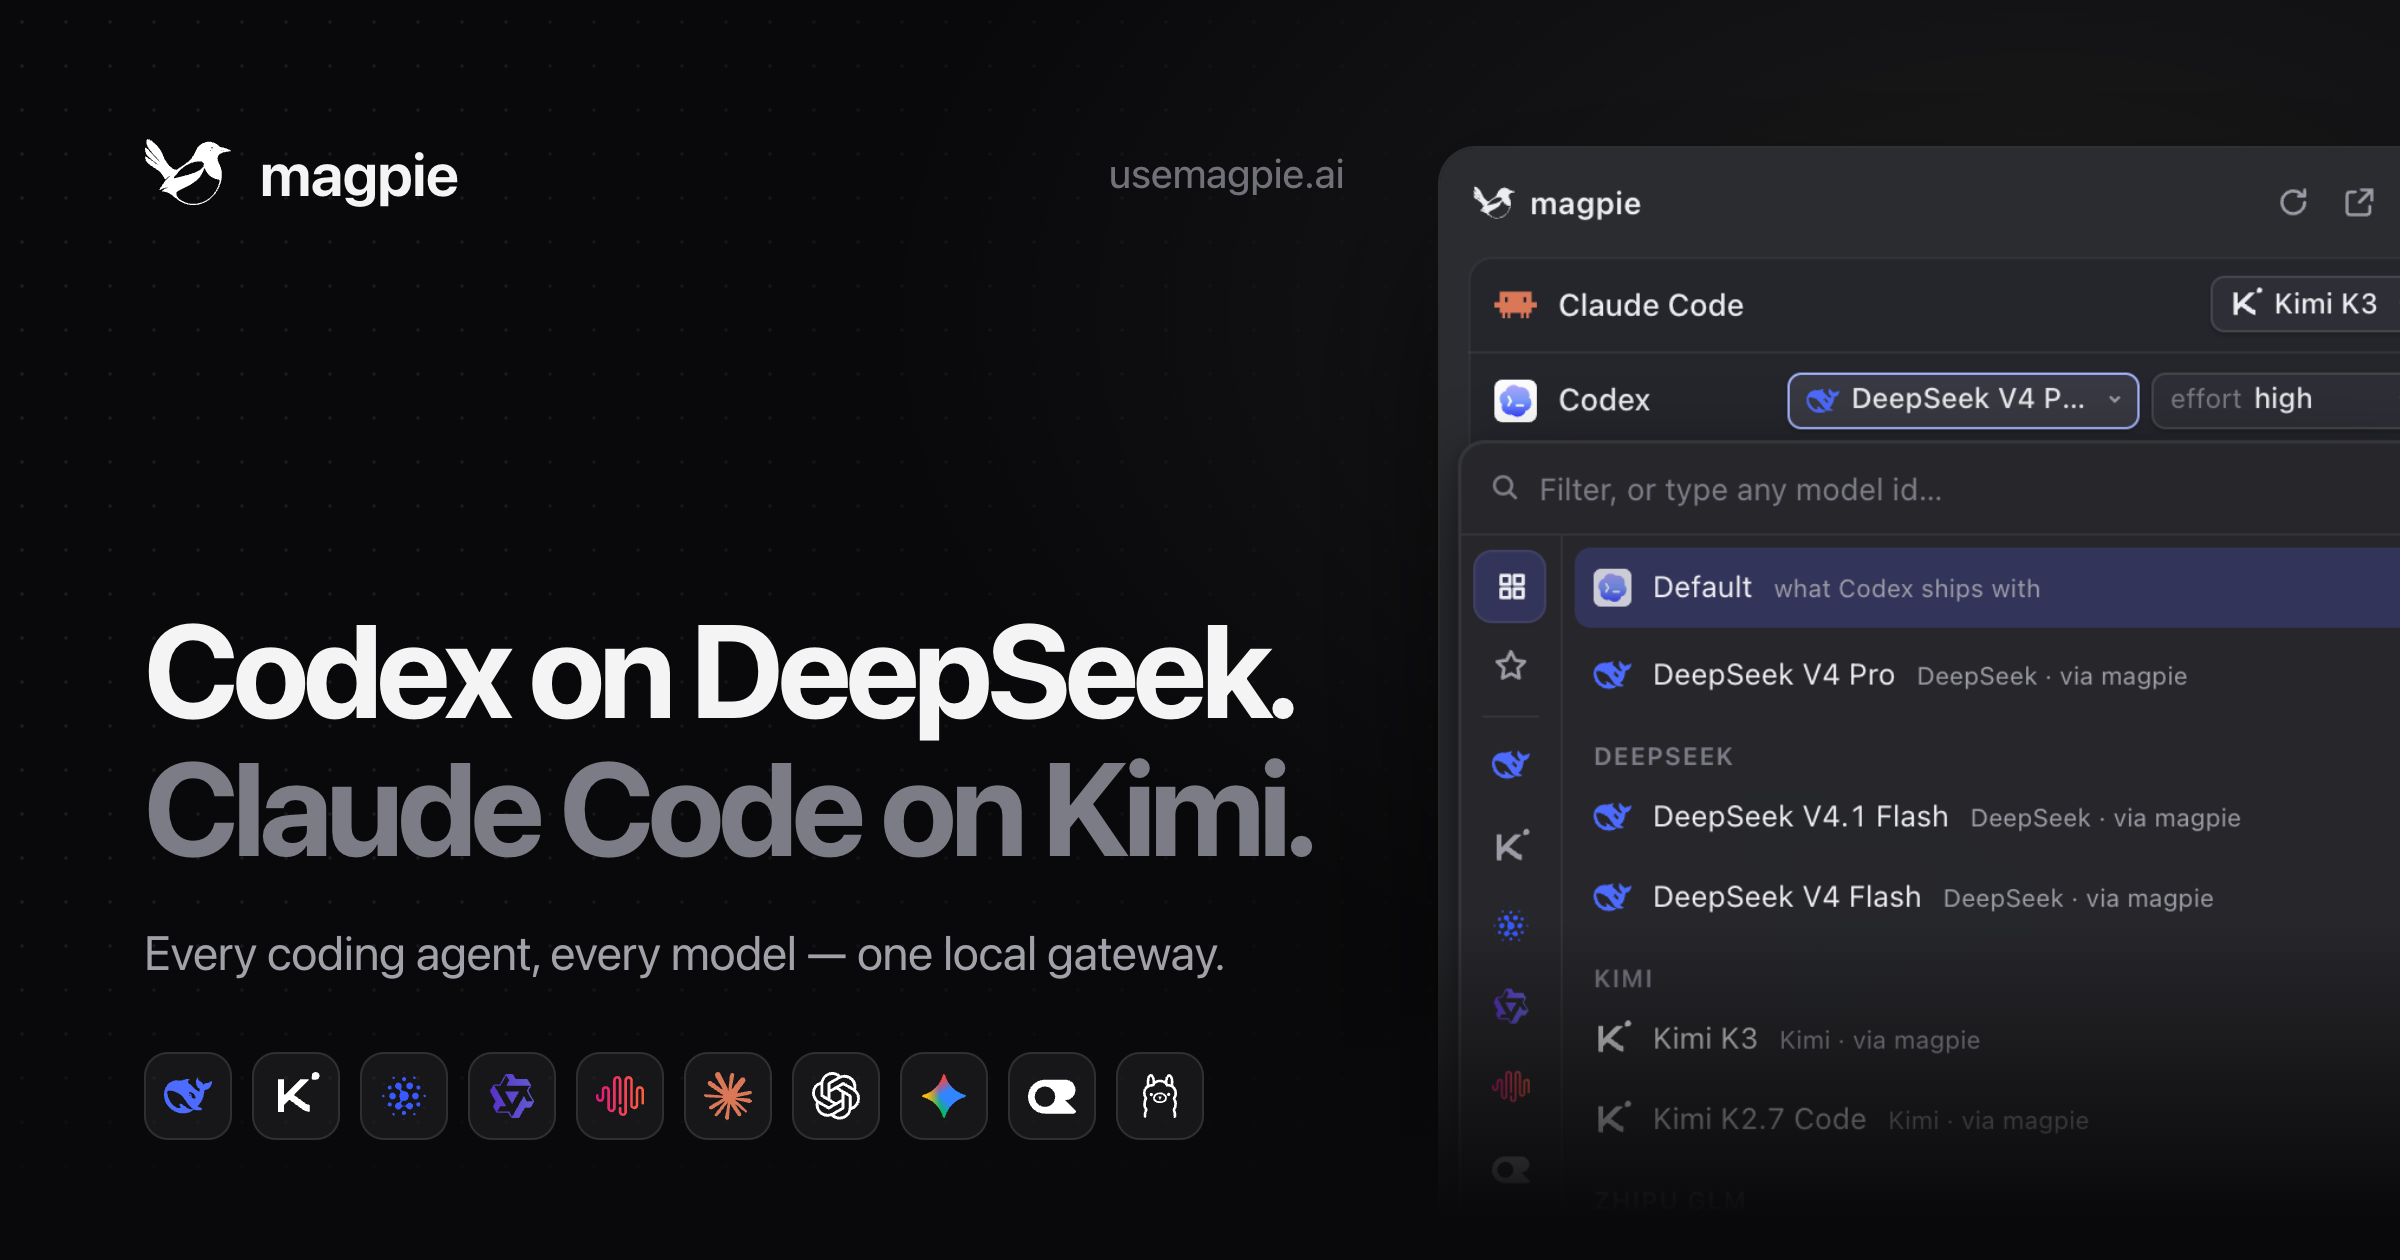
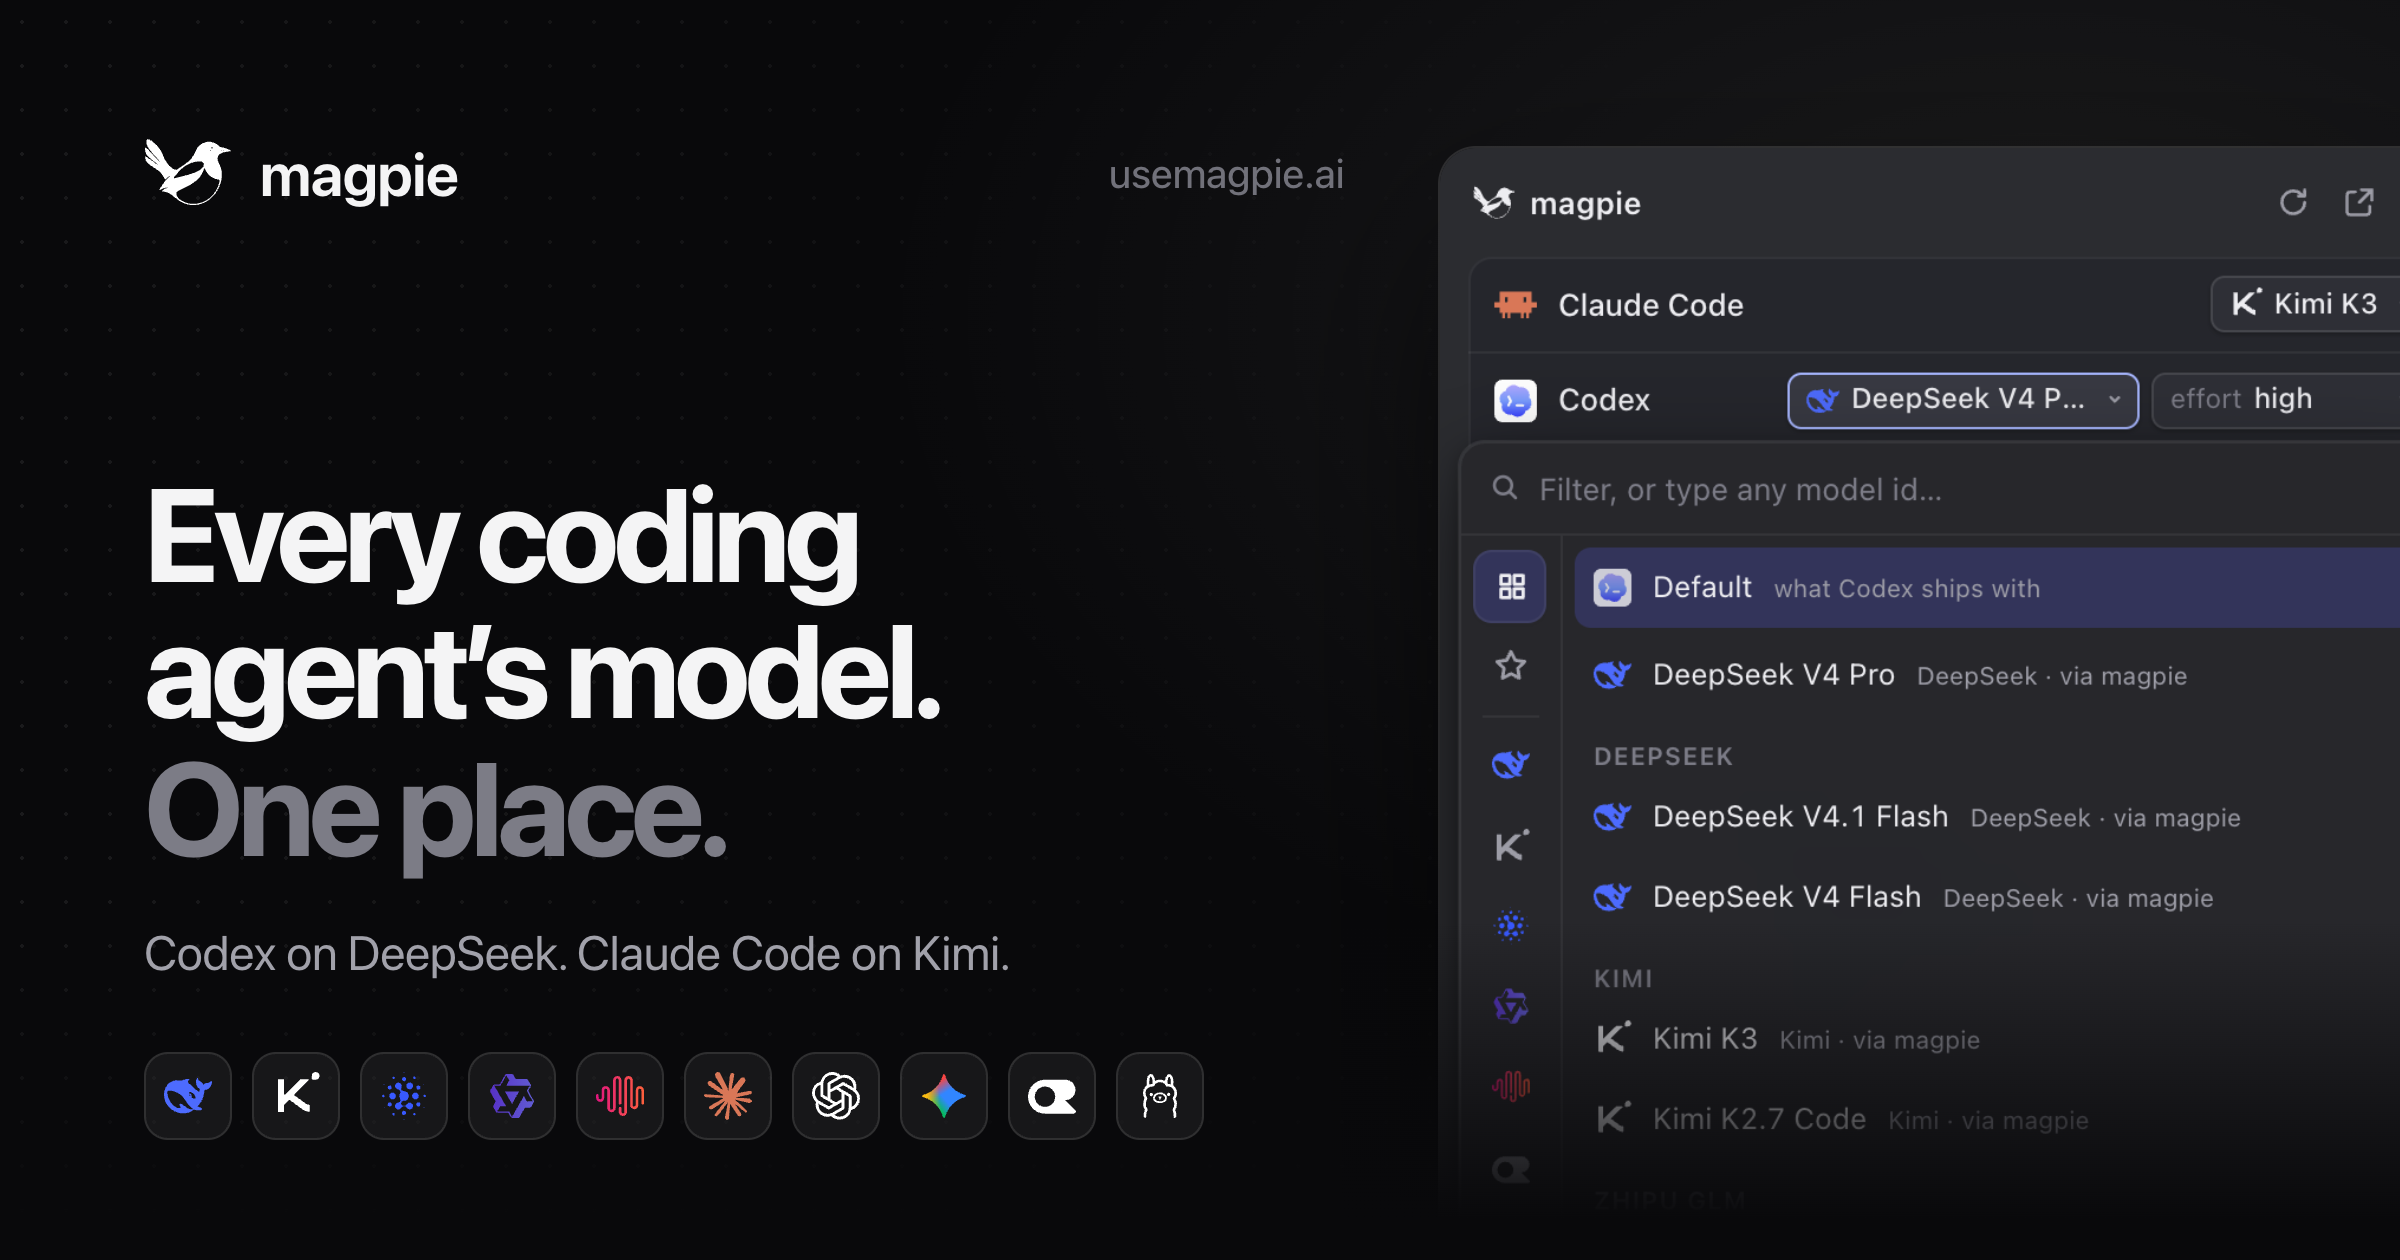
site: back to "Every coding agent's model. One place."

Changed region(s): [[0.0625, 0.3714, 0.5625, 0.7119], [0.0625, 0.7429, 0.5, 0.7738]]

diff --git a/site/public/index.html b/site/public/index.html
@@ -4,7 +4,7 @@
 <meta charset="utf-8">
 <meta name="viewport" content="width=device-width, initial-scale=1">
 <title>magpie</title>
-<meta name="description" content="Give every coding agent every model: Codex on DeepSeek, Claude Code on Kimi, Gemini CLI on GLM. One local gateway translates between every API.">
+<meta name="description" content="One place to pick every coding agent's model. Codex on DeepSeek, Claude Code on Kimi, Gemini CLI on GLM, from the menu bar, through one local gateway.">
 <meta name="color-scheme" content="light dark">
 <meta name="theme-color" content="#fafafa">
 <script>
@@ -29,13 +29,13 @@
 <link rel="icon" href="/favicon.png" type="image/png">
 <link rel="apple-touch-icon" href="/img/icon-256.png">
 <meta property="og:title" content="magpie">
-<meta property="og:description" content="Codex on DeepSeek. Claude Code on Kimi. Every coding agent, every model.">
+<meta property="og:description" content="Every coding agent’s model. One place.">
 <meta property="og:image" content="https://usemagpie.ai/img/og.png">
 <meta property="og:image:width" content="2400">
 <meta property="og:image:height" content="1260">
-<meta property="og:image:alt" content="magpie: Codex on DeepSeek, Claude Code on Kimi">
+<meta property="og:image:alt" content="magpie: every coding agent’s model, one place">
 <meta name="twitter:title" content="magpie">
-<meta name="twitter:description" content="Codex on DeepSeek. Claude Code on Kimi. Every coding agent, every model.">
+<meta name="twitter:description" content="Every coding agent’s model. One place.">
 <meta name="twitter:image" content="https://usemagpie.ai/img/og.png">
 <meta property="og:url" content="https://usemagpie.ai/">
 <meta name="twitter:card" content="summary_large_image">
@@ -248,7 +248,7 @@ footer a:hover { color: var(--ink); }
 <main class="wrap">
   <header class="hero">
     <div>
-      <h1>Codex on DeepSeek. <span>Claude Code on Kimi.</span></h1>
+      <h1>Every coding agent’s model. <span>One place.</span></h1>
       <p class="lede">magpie gives every coding agent every model. Add a provider once — DeepSeek, Kimi, GLM, Qwen, OpenRouter, Ollama, or the Claude and ChatGPT plans you already pay for — and pick it from Codex, Claude Code, Gemini CLI or any other agent, in one click.</p>
       <div class="chips">
         <span class="chip"><img src="/icons/codex-color.svg" alt=""><b>Codex</b><i>→</i><img src="/icons/deepseek-color.svg" alt="">DeepSeek V4 Pro</span>
